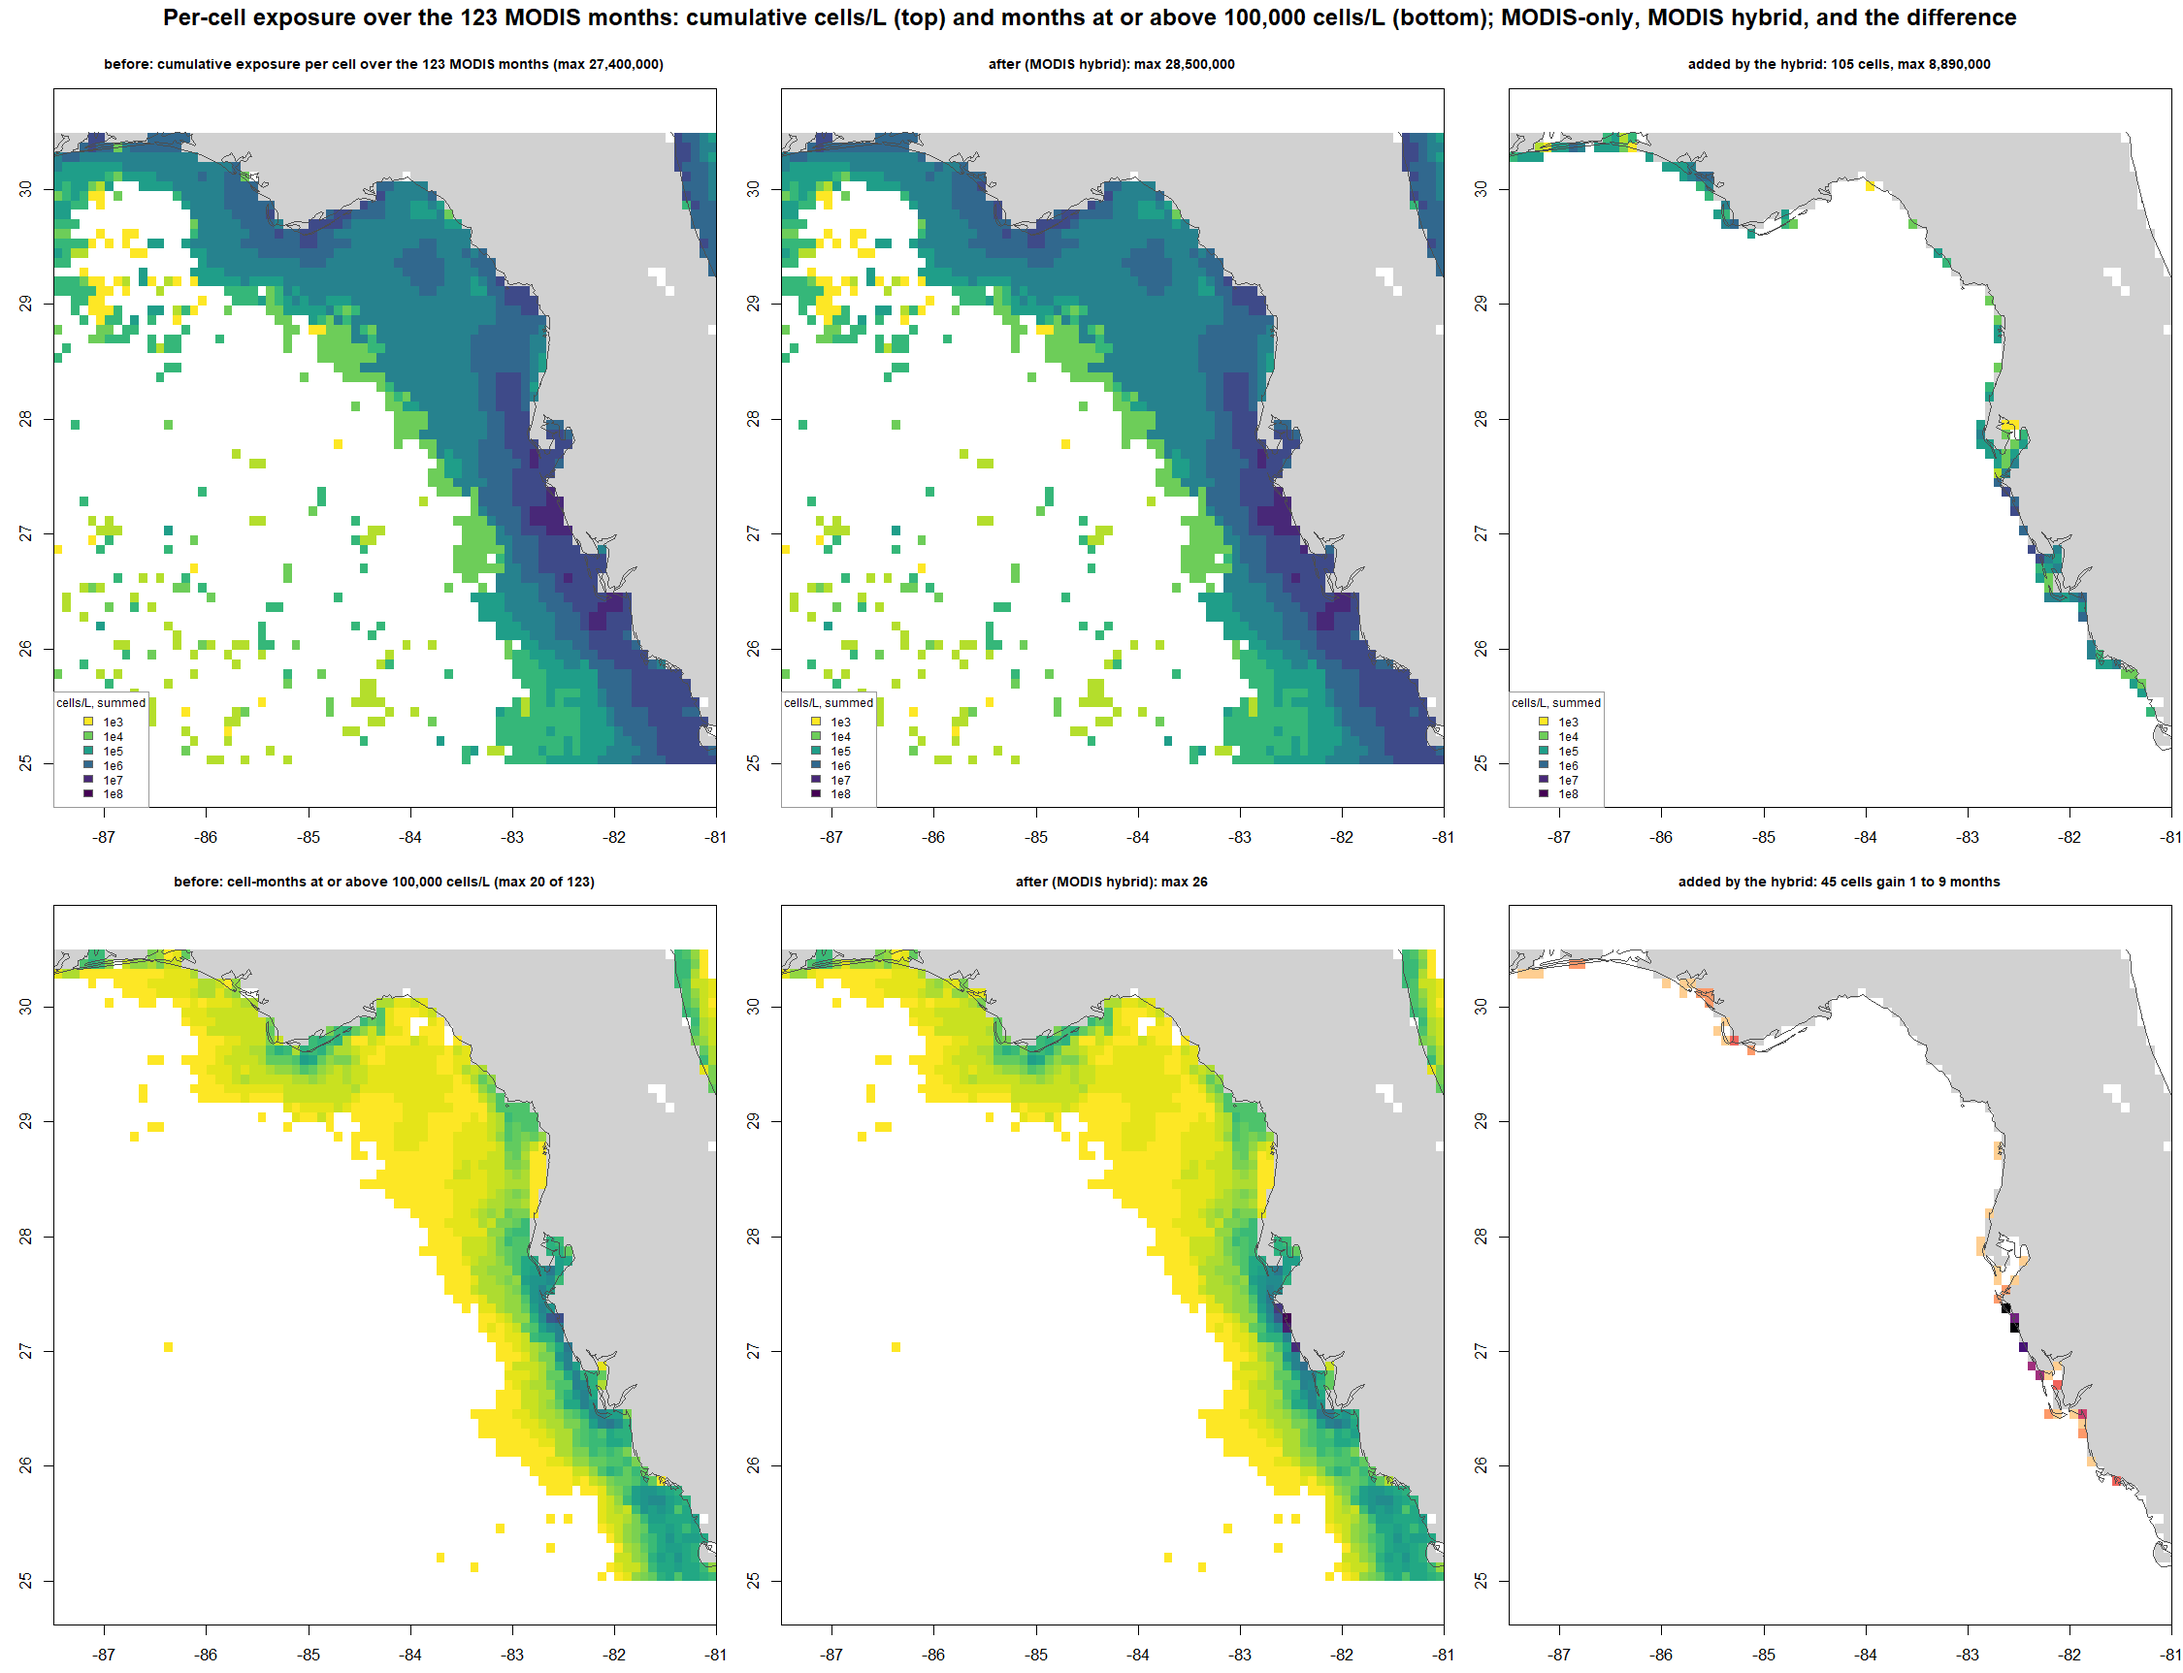
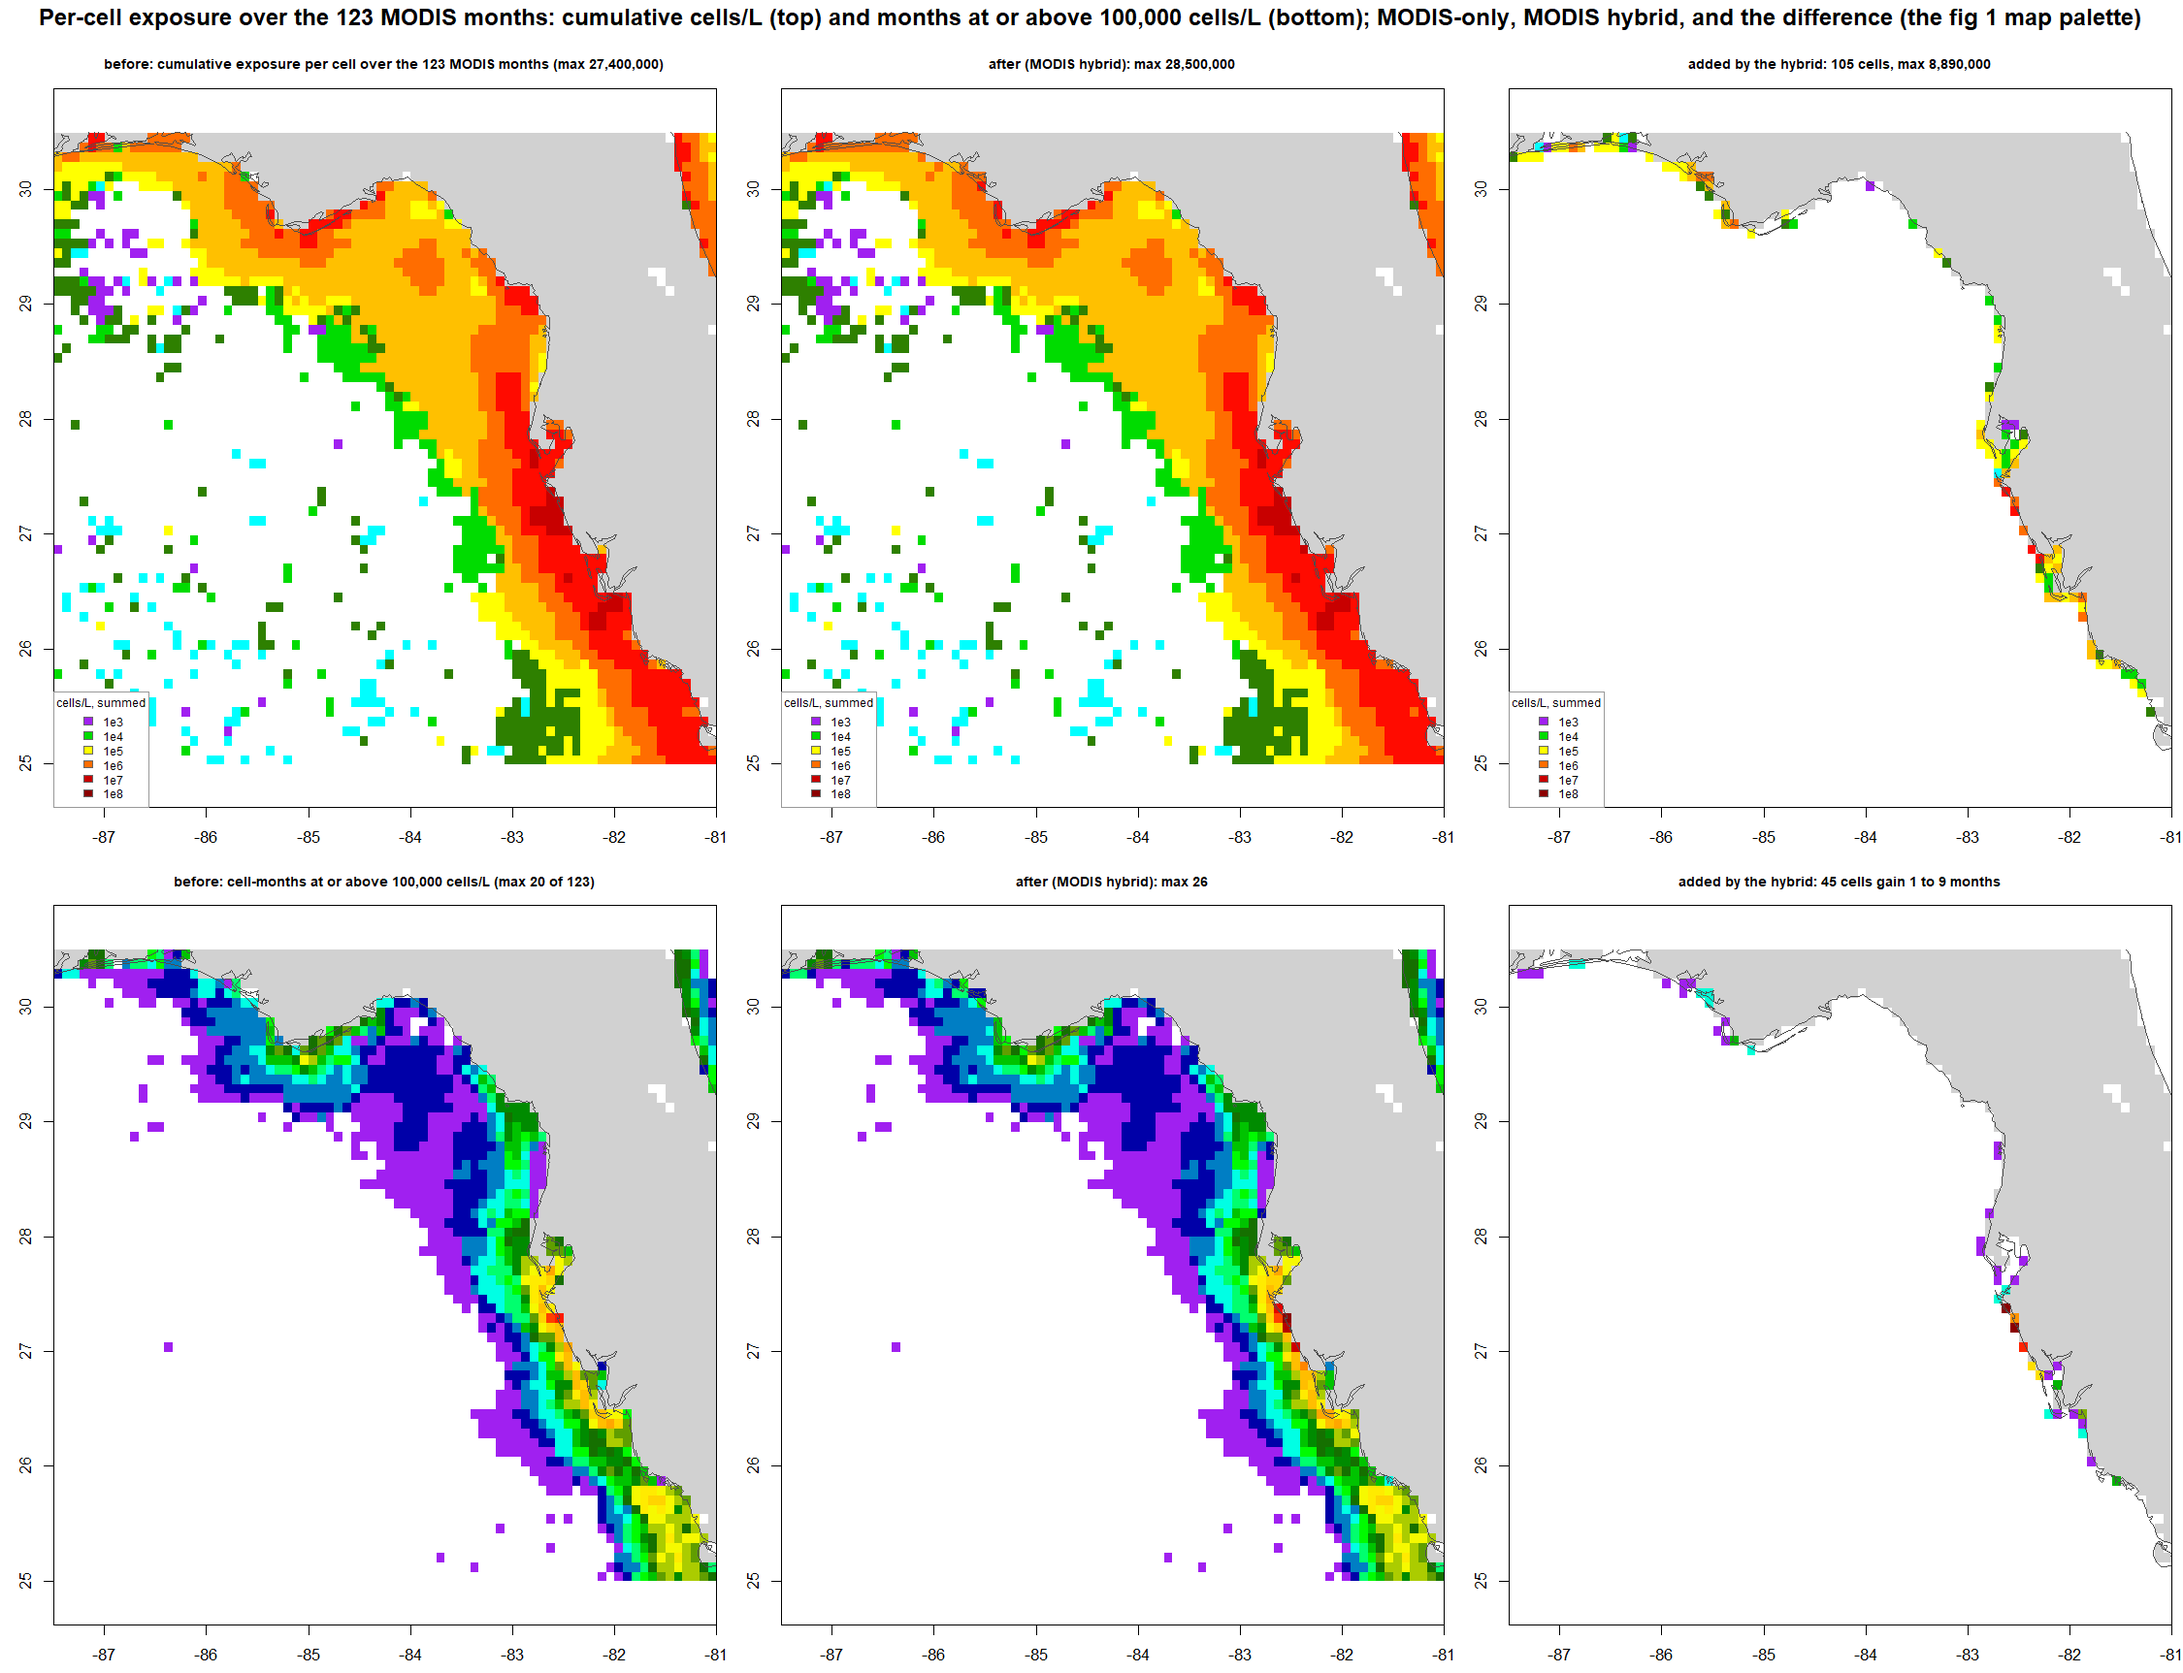
qa: issue #10 fig 4 starts at the first satellite month (2002-07); fig 5 in the fig 1 map palette
The hybrids add the nearshore hull to satellite months only, so the hull months before 2002-07 were identical in every variant of fig 4. Fig 5 now uses the pipeline palette of fig 1 (purple to dark red) instead of viridis. Byte-identical on rerun.

diff --git a/docs/issue10_modis-nearshore-hybrid/issue10-modis-hybrid-plan.md b/docs/issue10_modis-nearshore-hybrid/issue10-modis-hybrid-plan.md
@@ -68,7 +68,7 @@ Three pipeline runs of 7 to 15 min each; after each, `git checkout -- out/5min/e
 - **Run A** (`viirs_nearshore = "mask5"`, `modis_nearshore = "none"`), stage `regress`: the 504 ASCII MD5s equal `md5_after` of `docs/issue11_nearshore-hybrid-pipeline/tables/md5_mask5_issue11.csv` (0 differ), so the refactor and the `make_redtide_ascii()` change alter nothing; `clipping_source.csv` equals the #11 one apart from the all-FALSE `hybrid_modis` column; the log has the MODIS `none` line. Outputs copied to `hoard/before/` (combined, ascii, plots, clipping_source.csv, log).
 - **Run B** (both `"mask5"`), stage `mask5`: use counts hybrid 155 / hybrid_modis 123 / pred 226; exactly the months with `hybrid_modis & hybrid_changed` differ from run A and number 87; VIIRS-hybrid and hull months byte-identical; the `_clipped_hybrid_modis` stack equals the MODIS-clipped stack outside the set and the cell-wise maximum inside it, never below it, and equals the examine prototype in every month on the 11 metrics of the #11 check; the log names the rule and the 87 months. Outputs to `hoard/after/`.
 - **Run 0** (both `"none"`), the existing #11 `none` stage (`RT_QA_STAGE=none Rscript docs/issue11_nearshore-hybrid-pipeline/check_hybrid_issue11.R`): 0 of 504 differ from the 6 October baseline. Run last so the machine ends in the baseline state.
-- Stage `compare` (from the 6 October combined stack in the #11 hoard, `hoard/before` = run A and `hoard/after` = run B): the whole record as Ecospace reads it in three variants (the 6 October maps, the VIIRS hybrid, both hybrids): exposure, cell counts and the share of samples included per month, by year and by group, so the #5 call sees the full 504-month picture; per cell over the MODIS months. Figures: `fig4_record_1985-2026_issue10.png` (both sensors' eras shaded) and `fig5_cells_modis_issue10.png`; the MODIS-era series is fig 2 of the examine stage, which run B reproduces. `comments/compare_summary.md`. (As built on 22 October 2026; the draft plan had the exposure metrics as a separate stage and a separate MODIS-era series figure.)
+- Stage `compare` (from the 6 October combined stack in the #11 hoard, `hoard/before` = run A and `hoard/after` = run B): the whole record as Ecospace reads it in three variants (the 6 October maps, the VIIRS hybrid, both hybrids): exposure, cell counts and the share of samples included per month, by year and by group, so the #5 call sees the full 504-month picture; per cell over the MODIS months. Figures: `fig4_record_2002-2026_issue10.png` (from the first satellite month, both sensors' eras shaded) and `fig5_cells_modis_issue10.png` (the fig 1 map palette); the MODIS-era series is fig 2 of the examine stage, which run B reproduces. `comments/compare_summary.md`. (As built on 22 October 2026; the draft plan had the exposure metrics as a separate stage and a separate MODIS-era series figure.)
 
 ## 6. Step 4: docs and closure
 

diff --git a/docs/issue10_modis-nearshore-hybrid/README.md b/docs/issue10_modis-nearshore-hybrid/README.md
@@ -52,8 +52,8 @@ After each run, `git checkout -- out/5min/ecospace_ascii out/5min/plots` restore
 | `figures/fig1_examine_months_issue10.pdf` | the 12 months with the largest gain in samples included, then the 8 months with such samples but no bloom cell: samples | MODIS-clipped (the delivered map) | hybrid | hull-clipped with the set shaded; count boxes |
 | `figures/fig2_examine_series_issue10.png` | the 123 MODIS months as a series: total exposure, cells at or above 10k / 100k / 1M cells/L, share of samples included; before and after; all-zero MODIS maps shaded (run B reproduces the prototype, so this is also the run-B series) |
 | `figures/fig3_excluded_samples_issue10.png` | the 799 excluded samples on the map (recovered or not) and their distance to the coast (ECDF) |
-| `figures/fig4_record_1985-2026_issue10.png` | the whole record, the three variants, with the clip source of each month shaded |
-| `figures/fig5_cells_modis_issue10.png` | per cell over the MODIS months: cumulative exposure (log colour) and cell-months at or above 100,000 cells/L; MODIS-only, MODIS hybrid, difference |
+| `figures/fig4_record_2002-2026_issue10.png` | the record from the first satellite month (2002-07) to 2026, the three variants, with the clip source of each month shaded; the hull months before 2002-07 are identical in every variant and are left out |
+| `figures/fig5_cells_modis_issue10.png` | per cell over the MODIS months: cumulative exposure (log colour) and cell-months at or above 100,000 cells/L; MODIS-only, MODIS hybrid, difference; the fig 1 map palette |
 | `comments/examine_summary.md`, `comments/compare_summary.md` | the tables above in markdown, as the script writes them |
 | `hoard/` (gitignored) | local copies of the run A (`before/`) and run B (`after/`) outputs the compare stage reads |
 
